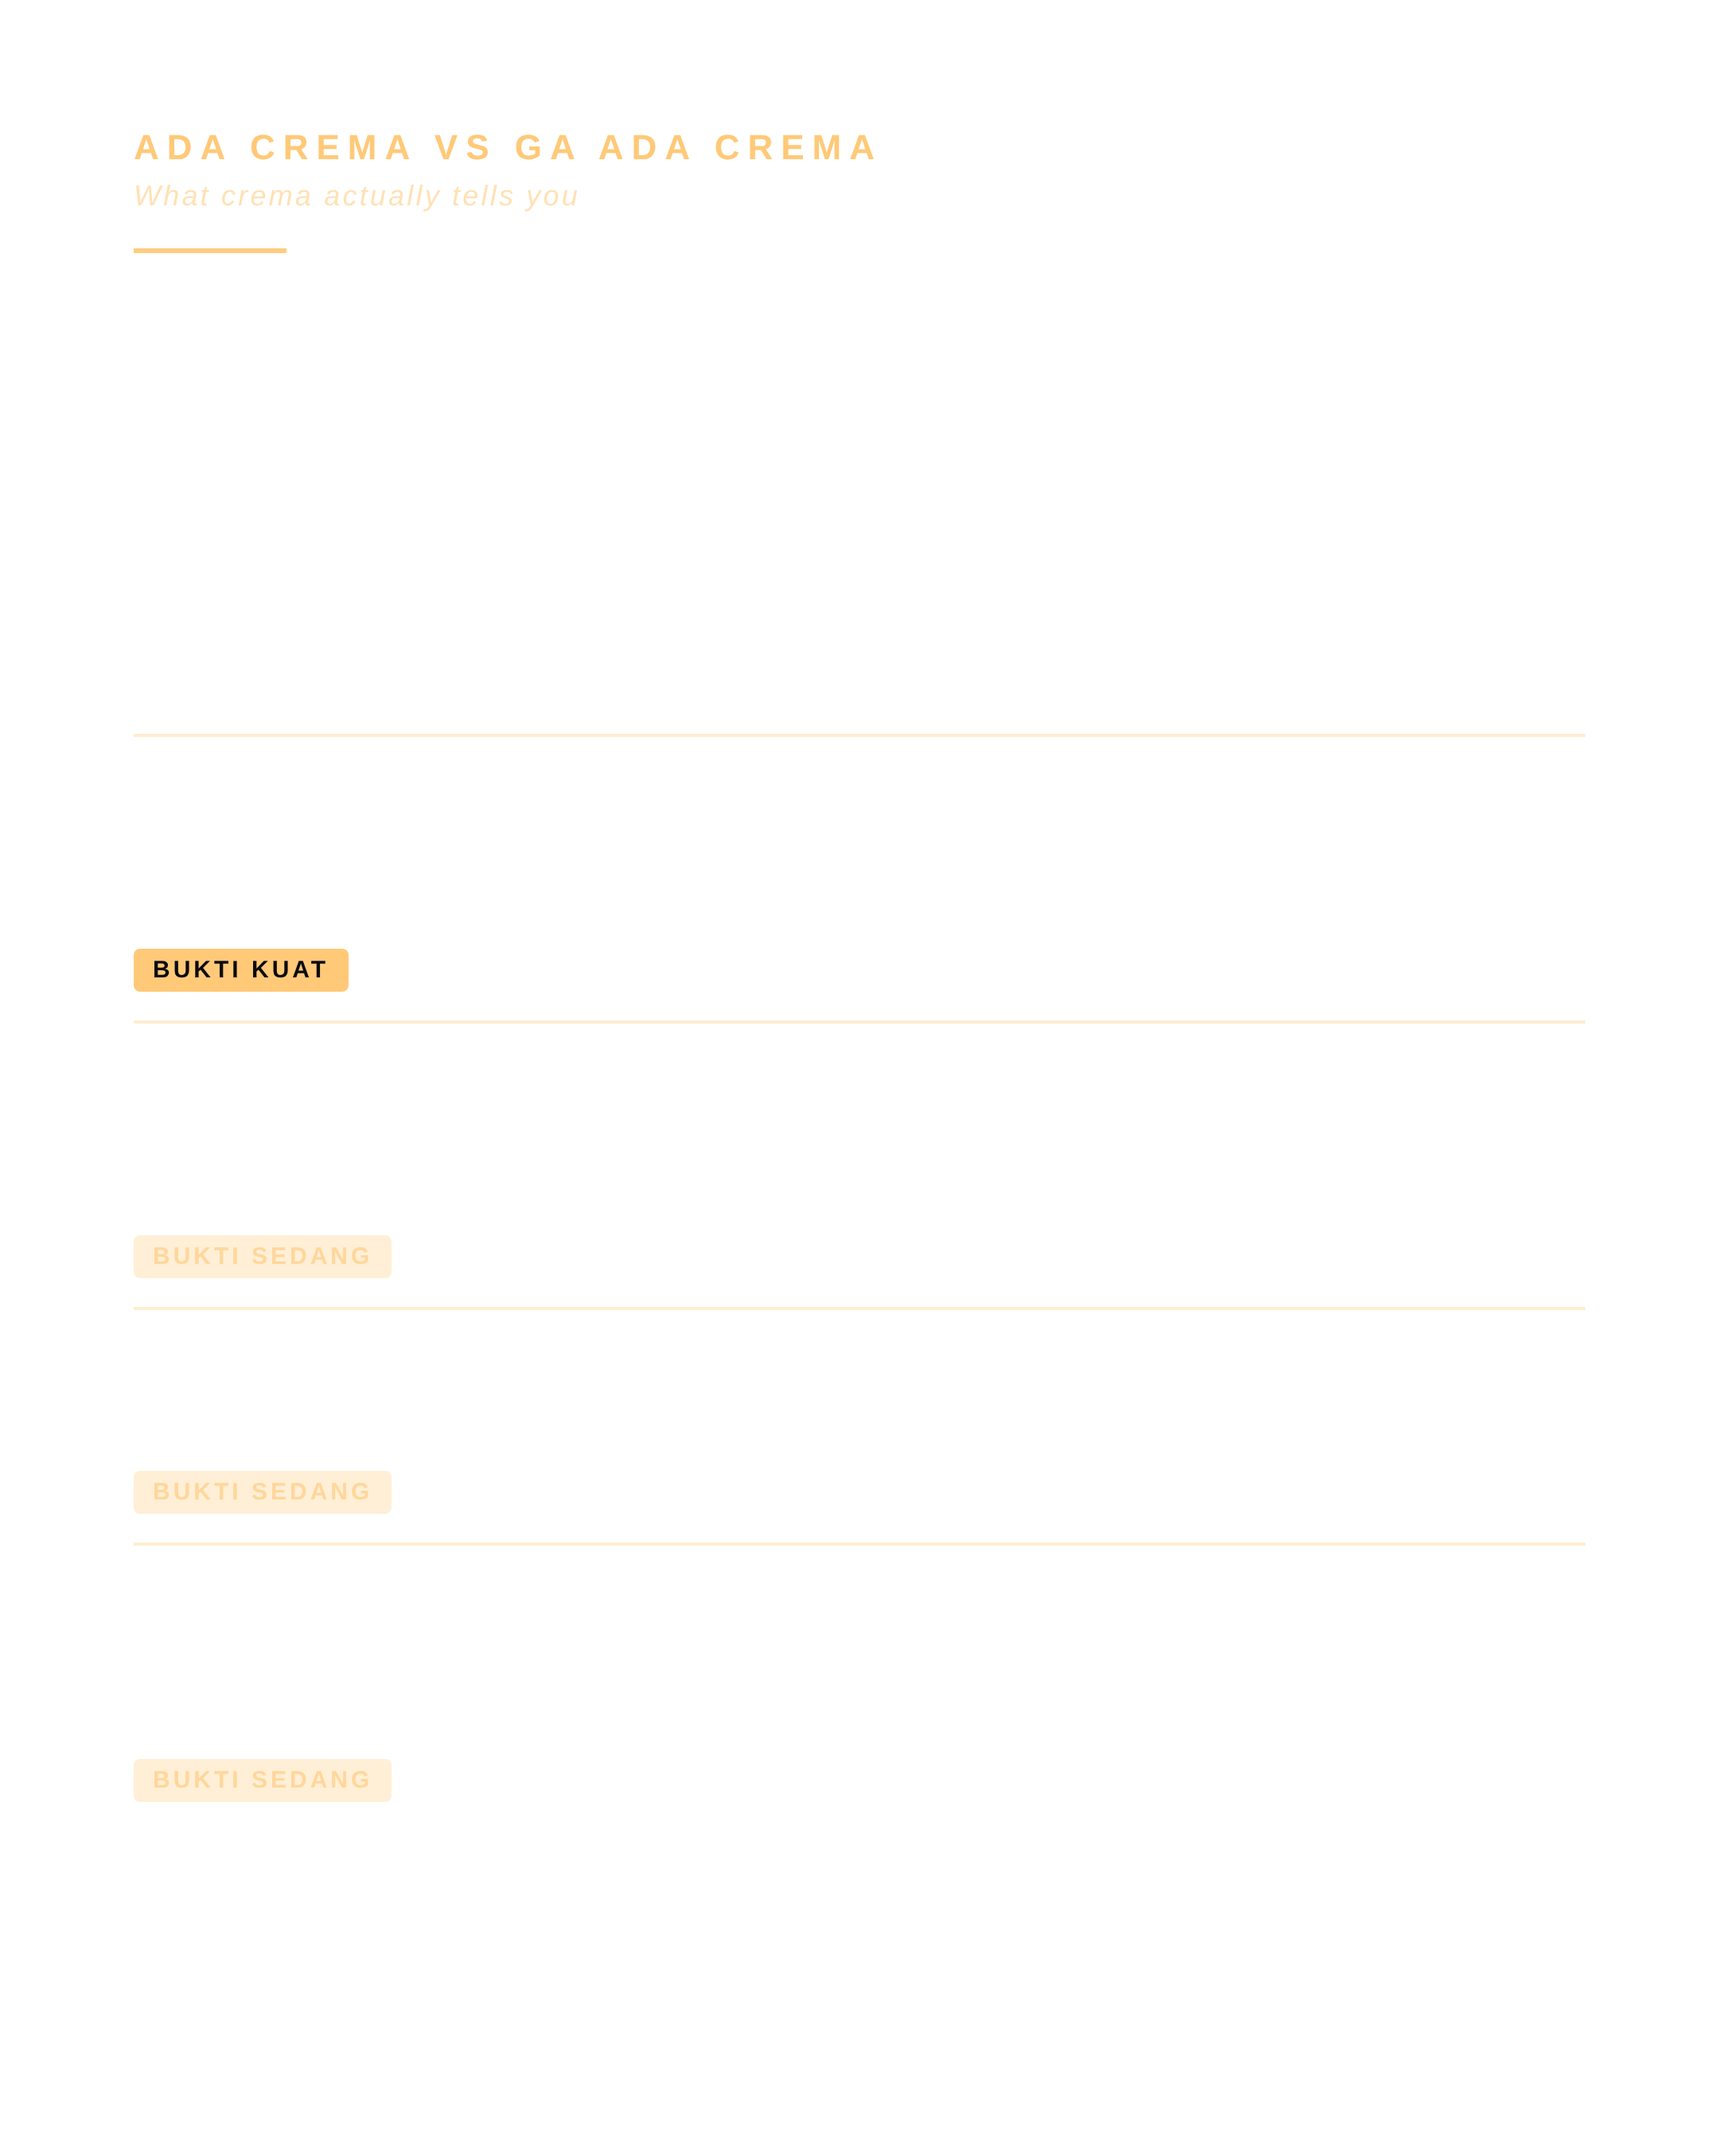
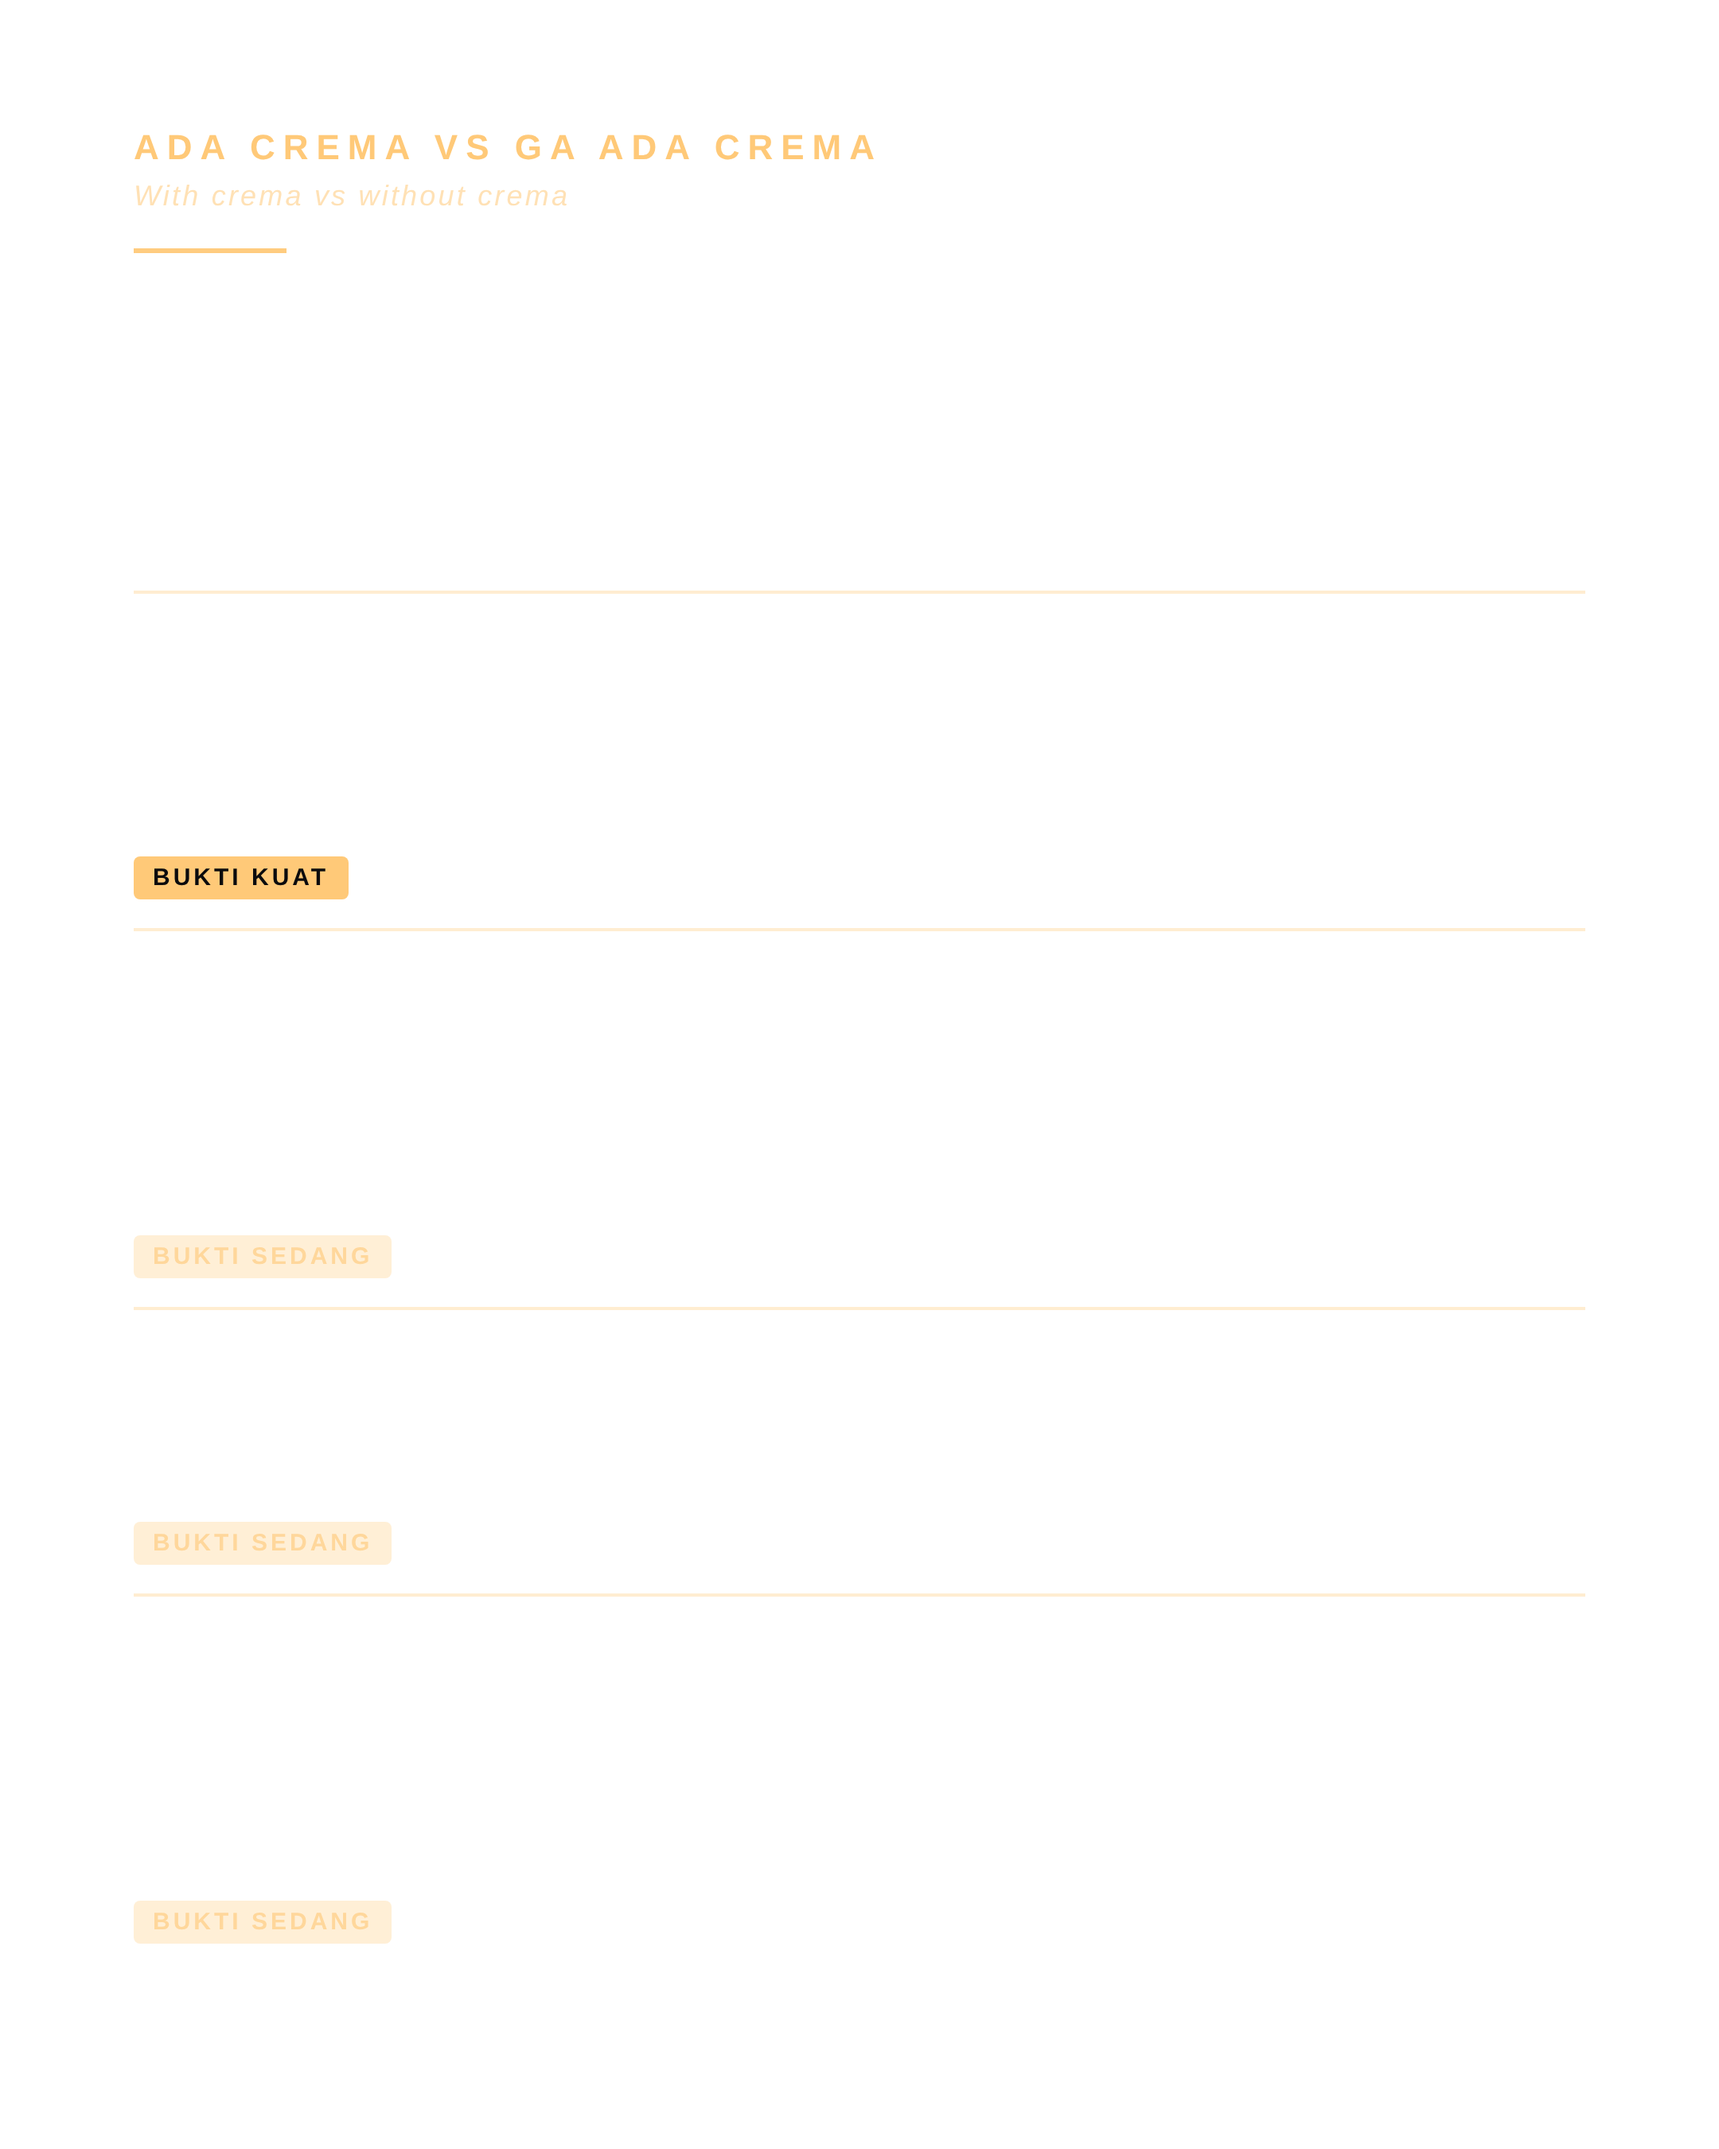
Hapus slide ringkasan dari carousel crema, benerin mapping subtitle Inggris
Slide 'Ringkasan' dihapus dari carousel crema espresso sesuai permintaan
Dustin. Sekarang 11 slide.

Sekalian dibenerin: mapping subtitle Inggris (en-crema.js) sempat salah
sejak slide robusta dan ringkasan dihapus di commit sebelumnya - kunci
terjemahan pakai posisi tayang, padahal lookup-nya berdasarkan field n
di slides-crema.js. Akibatnya separuh slide dapat teks Inggris yang
ga sesuai kontennya. Sekarang key di berkas terjemahan disamakan persis
dengan field n di slide aslinya.

Claude-Session: https://claude.ai/code/session_01DWyspajaqx8W3wFxgo15X2

diff --git a/CLAUDE.md b/CLAUDE.md
@@ -120,7 +120,7 @@ Render HTML → screenshot JPEG quality 94 / PNG `omitBackground: true`.
 |---|---|
 | `air-98-persen/` | 10 slide (slide PR sudah dihapus) |
 | `rpm-grindsize/` | 12 slide |
-| `crema-espresso/` | 12 slide |
+| `crema-espresso/` | 11 slide |
 | `kafe-vs-rumah/` | 9 slide |
 
 ---
